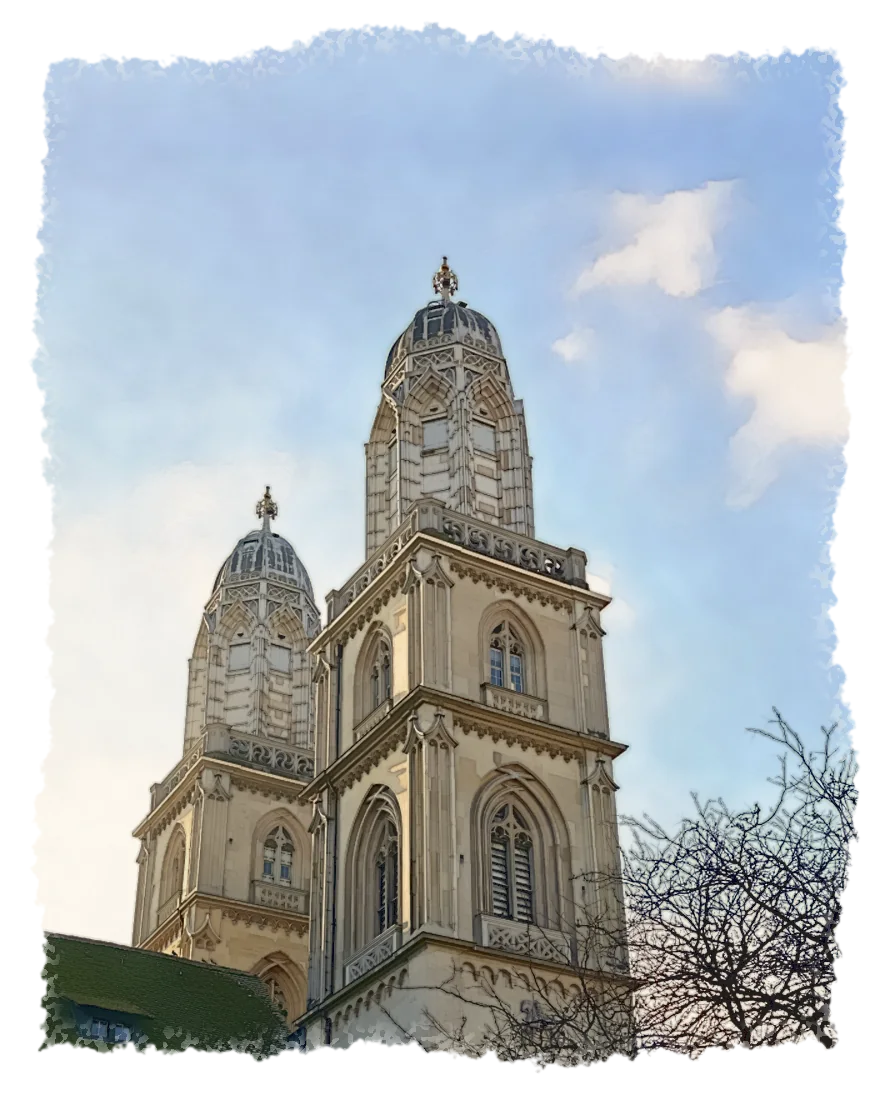
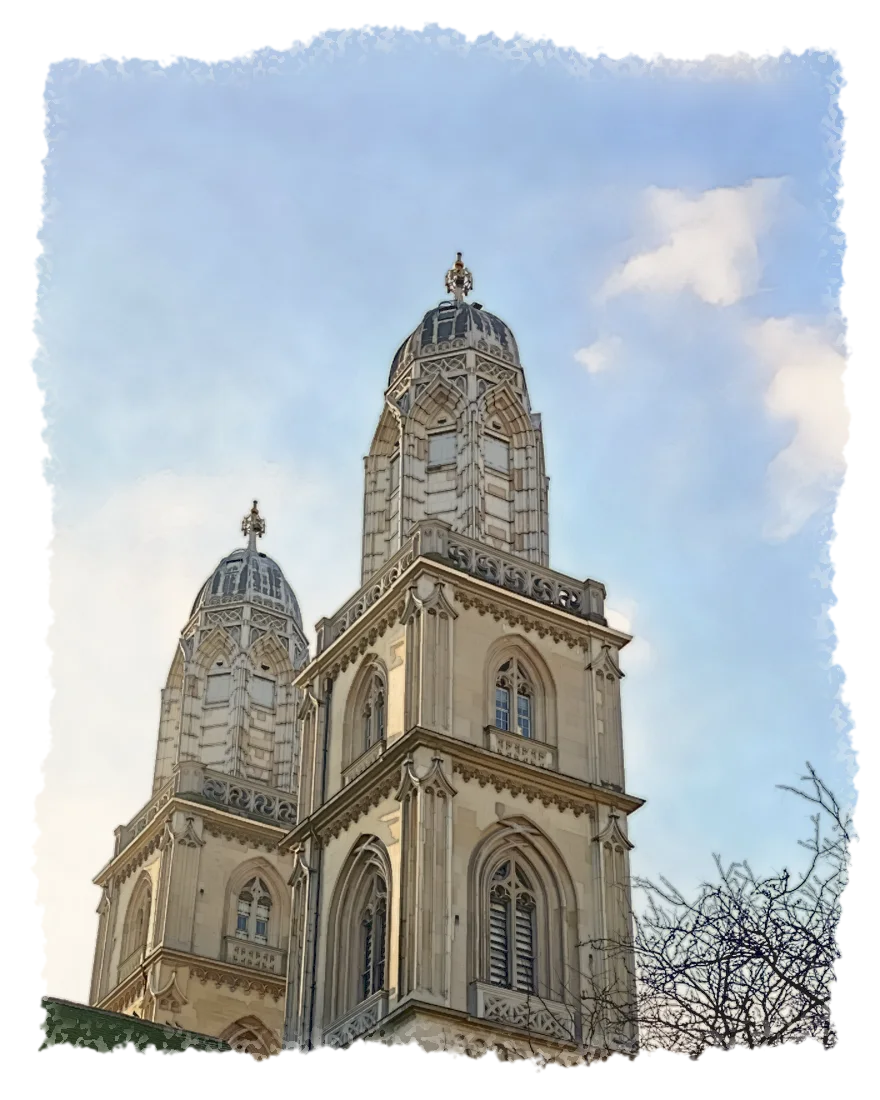
Straighten the Grossmünster painting
The photo is rotated 1.8° before painting so the main tower stands upright.

Claude-Session: https://claude.ai/code/session_01NGvW8y4aypVsC6WPXTU7ib

diff --git a/index.html b/index.html
@@ -83,7 +83,7 @@ body{position:relative}
   <img class="wappen" id="wappen" src="img/maison-baer-wappen.webp" alt="Maison Baer" width="344" height="500">
   <h1 class="rv">Maison Baer</h1>
 </section>
-  <img class="paint church rv" src="img/maison-baer-3-grossmuenster.webp" alt="The towers of the Grossmünster, painted" width="880" height="1100" decoding="async">
+  <img class="paint church rv" src="img/maison-baer-3-grossmuenster.webp?v=2" alt="The towers of the Grossmünster, painted" width="880" height="1100" decoding="async">
 
 <section class="prose">
   <p class="rv">A private dinner club.<br>One table, <em>seven</em> guests, never an <em>eighth</em>.</p>
